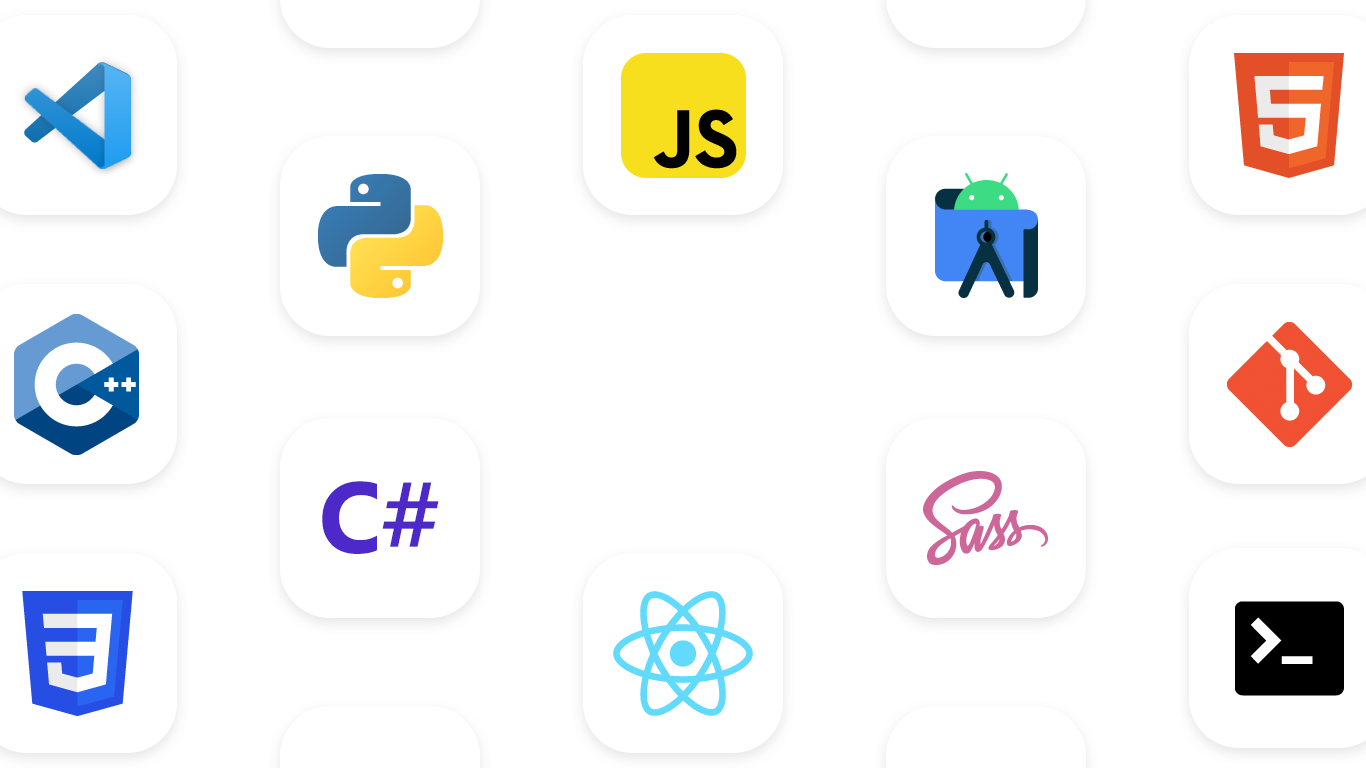
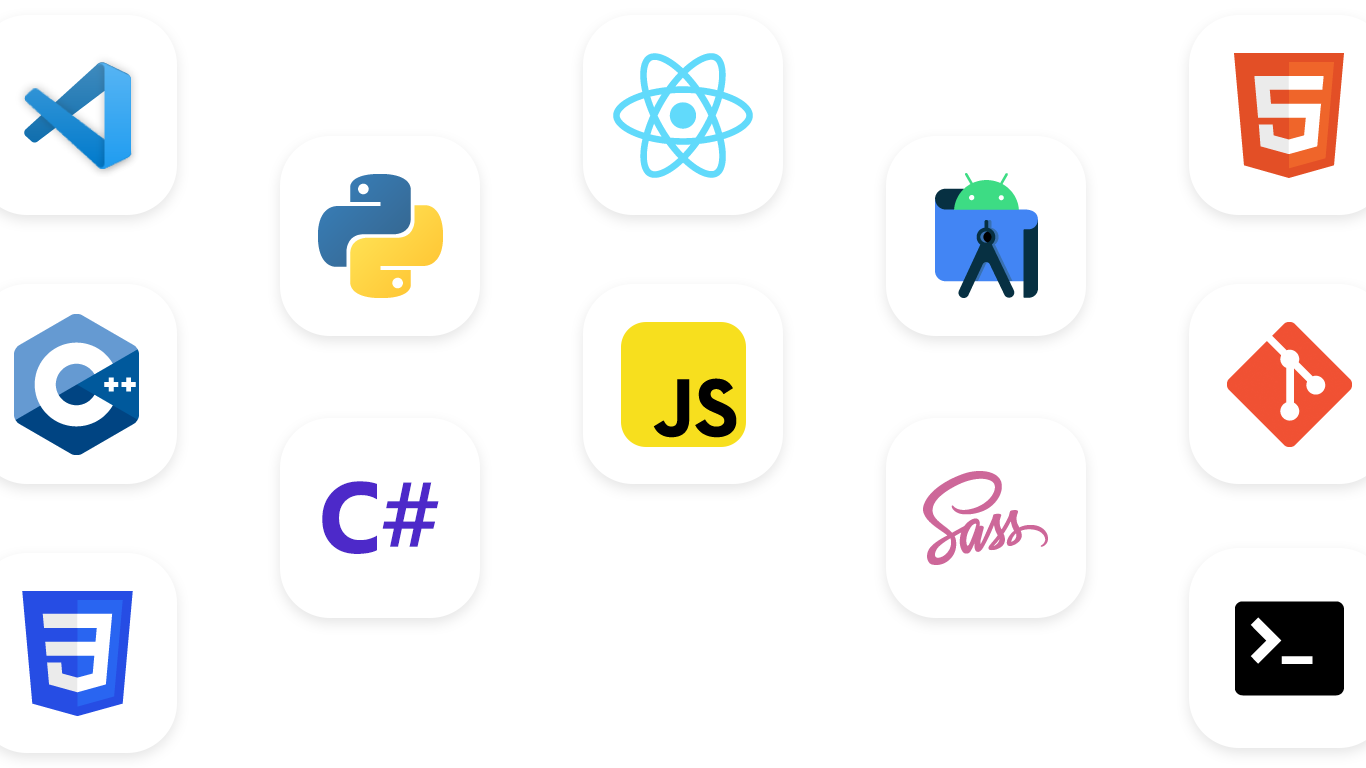
Added creative-apps image

Changed region(s): [[0.4305, 0.4062, 0.5534, 0.5938], [0.4305, 0.0625, 0.5534, 0.25], [0.4305, 0.75, 0.5534, 0.9375]]

diff --git a/src/styles.scss b/src/styles.scss
@@ -329,17 +329,16 @@ $aos-distance: 50px; // It has to be above import
             justify-content: center;
             align-items: center;
             p {
-                font-size: 1.5rem;
+                font-size: 1.25rem;
                 text-align: center;
-                font-weight: 400;
-                margin: 2rem 0;
+                margin: 3rem 0;
             }
         }
 
         .tech-apps {
-            // align-items: flex-end;
+            align-items: flex-end;
             grid-area: tech-apps;
-            background-size: cover;
+            background-size: contain;
             background-repeat: no-repeat;
             background-position: center;
         }
@@ -353,6 +352,9 @@ $aos-distance: 50px; // It has to be above import
 
         .creative-apps {
             grid-area: creative-apps;
+            background-size: cover;
+            background-repeat: no-repeat;
+            background-position: center;
         }
 
         .pallet {

diff --git a/src/components/MyToolkit.js b/src/components/MyToolkit.js
@@ -1,4 +1,5 @@
 import techStack from '../data/tech-stack.png';
+import creativeApps from '../data/creative-apps.png';
 
 const MyToolkit = () => {
     return ( 
@@ -8,7 +9,7 @@ const MyToolkit = () => {
                 <div className="toolkit-grid">
                     <div className="pixel" data-aos="fade-up" ><p>Pixel Perfect Code</p></div>
                     <div className="tech-apps" data-aos="fade-up" style={{backgroundImage: `url(`+techStack+`)`}}><p>And Expanding</p></div>
-                    <div className="creative-apps" data-aos="fade-up"></div>
+                    <div className="creative-apps" data-aos="fade-up" style={{backgroundImage: `url(`+creativeApps+`)`}}></div>
                     <div className="pallet" data-aos="fade-up"><p>Creative Pallet</p></div>
                 </div>
             </div>
